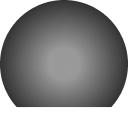
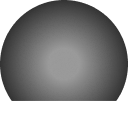
trim, shift down png and change opacity

Changed region(s): [[0.0938, 0.7812, 0.9062, 0.8438]]

diff --git a/selfdrive/ui/mici/onroad/dmoji_bar.py b/selfdrive/ui/mici/onroad/dmoji_bar.py
@@ -30,7 +30,7 @@ _BAR_ROUNDNESS = 0.42
 _BAR_ROUND_SEGMENTS = 10
 
 # +y nudges strip down (frees dmoji face; bar may extend below cell bottom)
-_DMOJI_BAR_SHIFT_DOWN_PX = 34.0
+_DMOJI_BAR_SHIFT_DOWN_PX = 34.5
 # Allow the dmoji bar to extend beyond the dmoji circle width.
 _DMOJI_BAR_WIDTH_SCALE = 1.14
 # Keep bar thickness independent from width so widening does not make it taller.
@@ -39,7 +39,7 @@ _DMOJI_BAR_HEIGHT_SCALE = 0.58
 # --- Colors and alpha (RGB fixed; bar alpha lerp'd in _draw_horizontal_bar) ---
 _BAR_BG_RGB = (18, 18, 22)
 # Dmoji bar panel + cell opacity.
-_DMOJI_BAR_IDLE_ALPHA = 190
+_DMOJI_BAR_IDLE_ALPHA = 150
 _DMOJI_BAR_FULL_ALPHA = 248
 # TODO: Decide whether the dmoji bar and dmoji should share one peak opacity constant.
 # Dmoji background/person texture opacity.